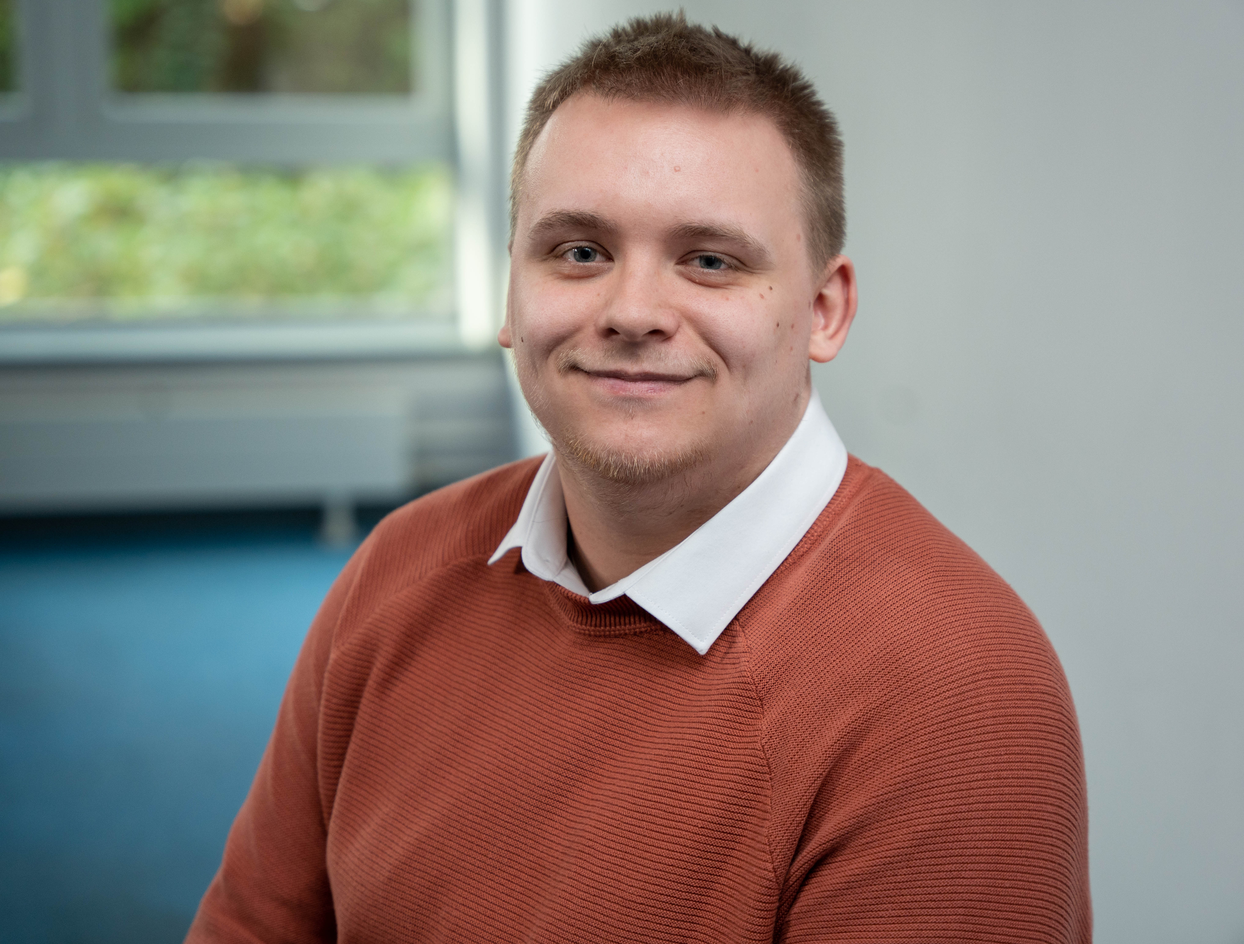
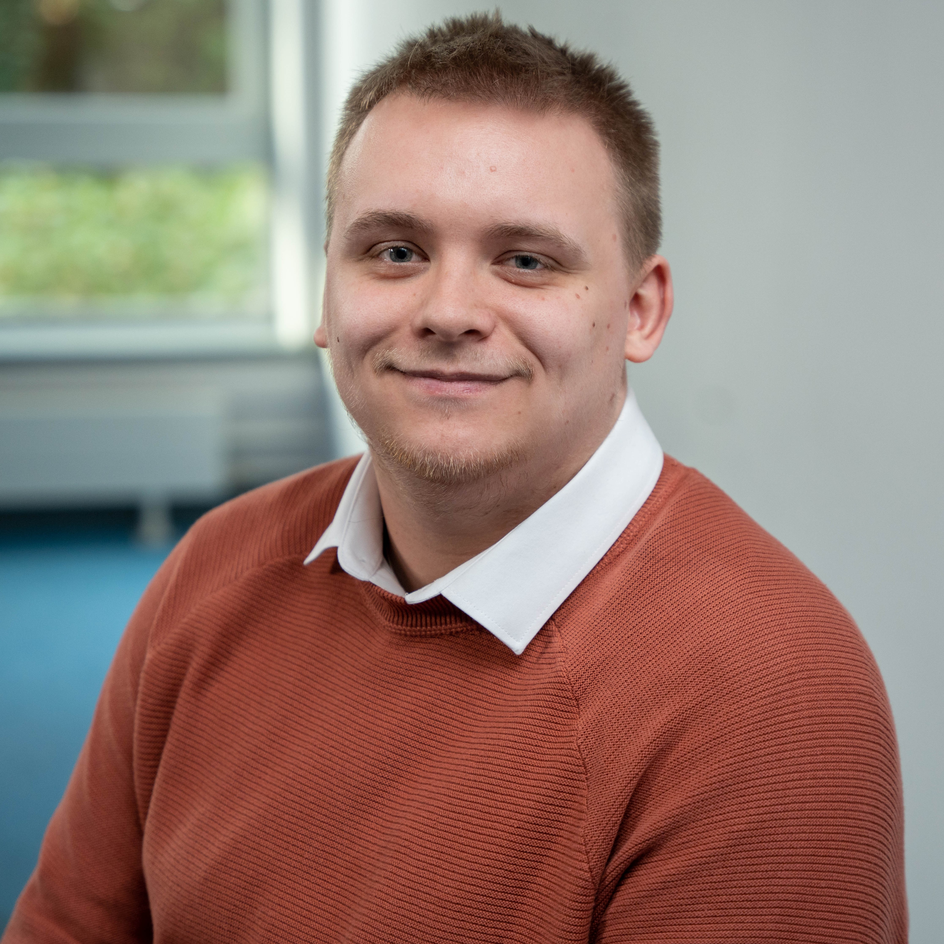
Image size change and sidebar updates

diff --git a/_sass/_sidebar.scss b/_sass/_sidebar.scss
@@ -79,9 +79,9 @@
 .author__avatar {
   display: table-cell;
   vertical-align: top;
-  width: 50px;
+  width: 36px;
   // set width only, for non-square avatars
-  height: 50px;
+  height: 36px;
 
   @include breakpoint($large) {
     display: block;
@@ -91,7 +91,7 @@
 
   img {
     max-width: 175px;
-    border-radius: 0%;
+    border-radius: 50%;
 
     @include breakpoint($large) {
       padding: 5px;
